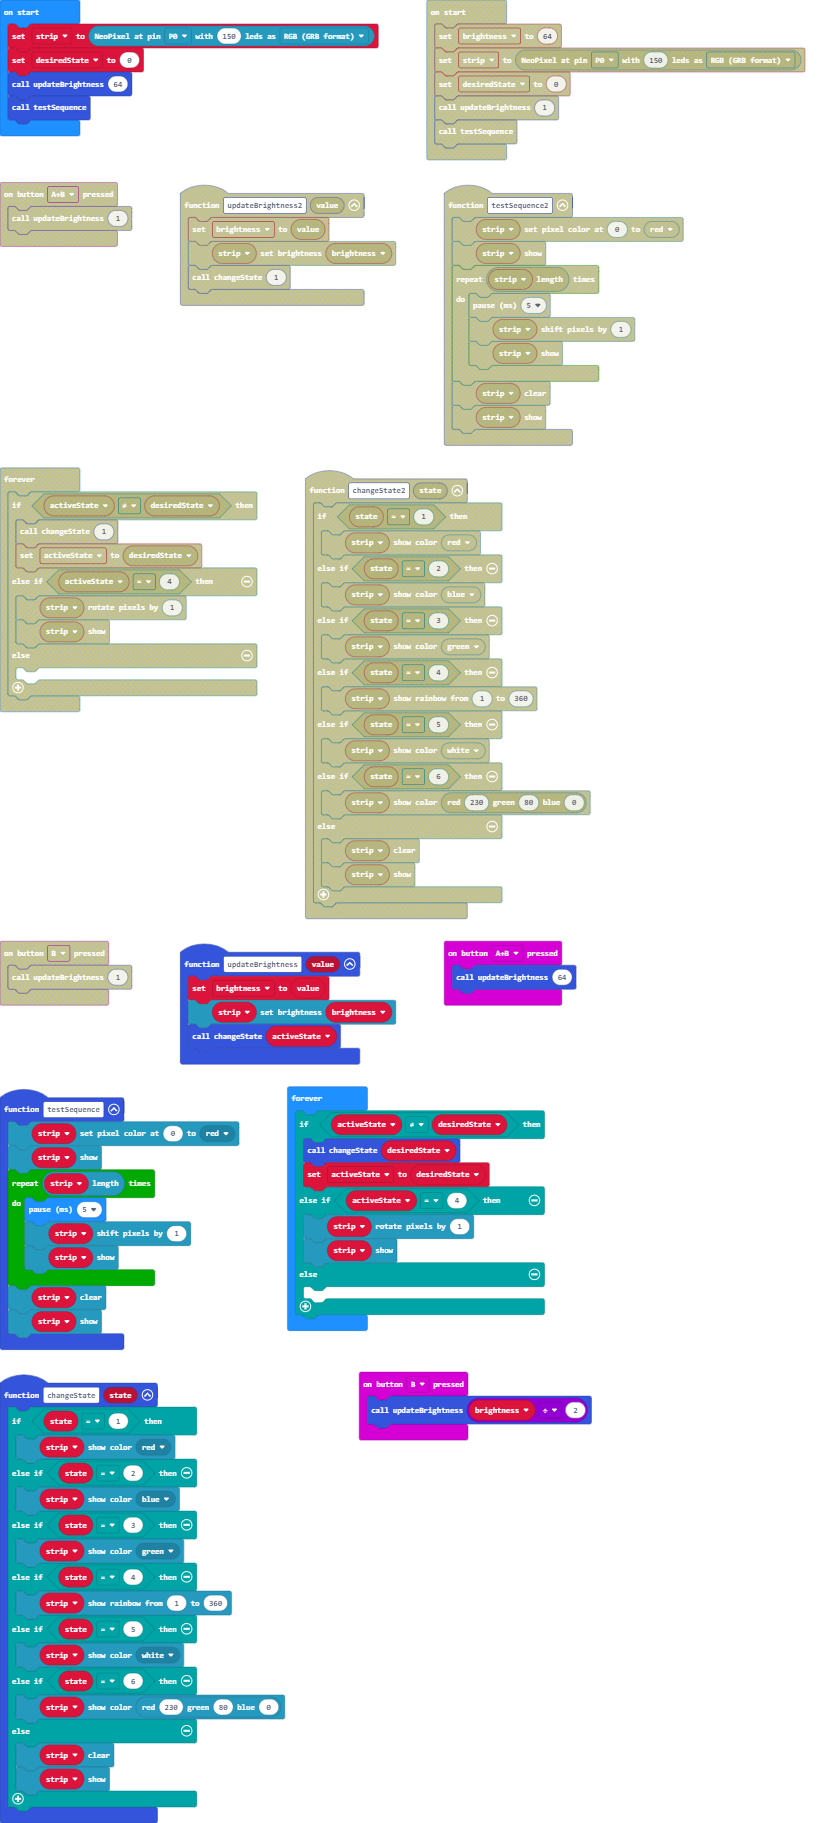
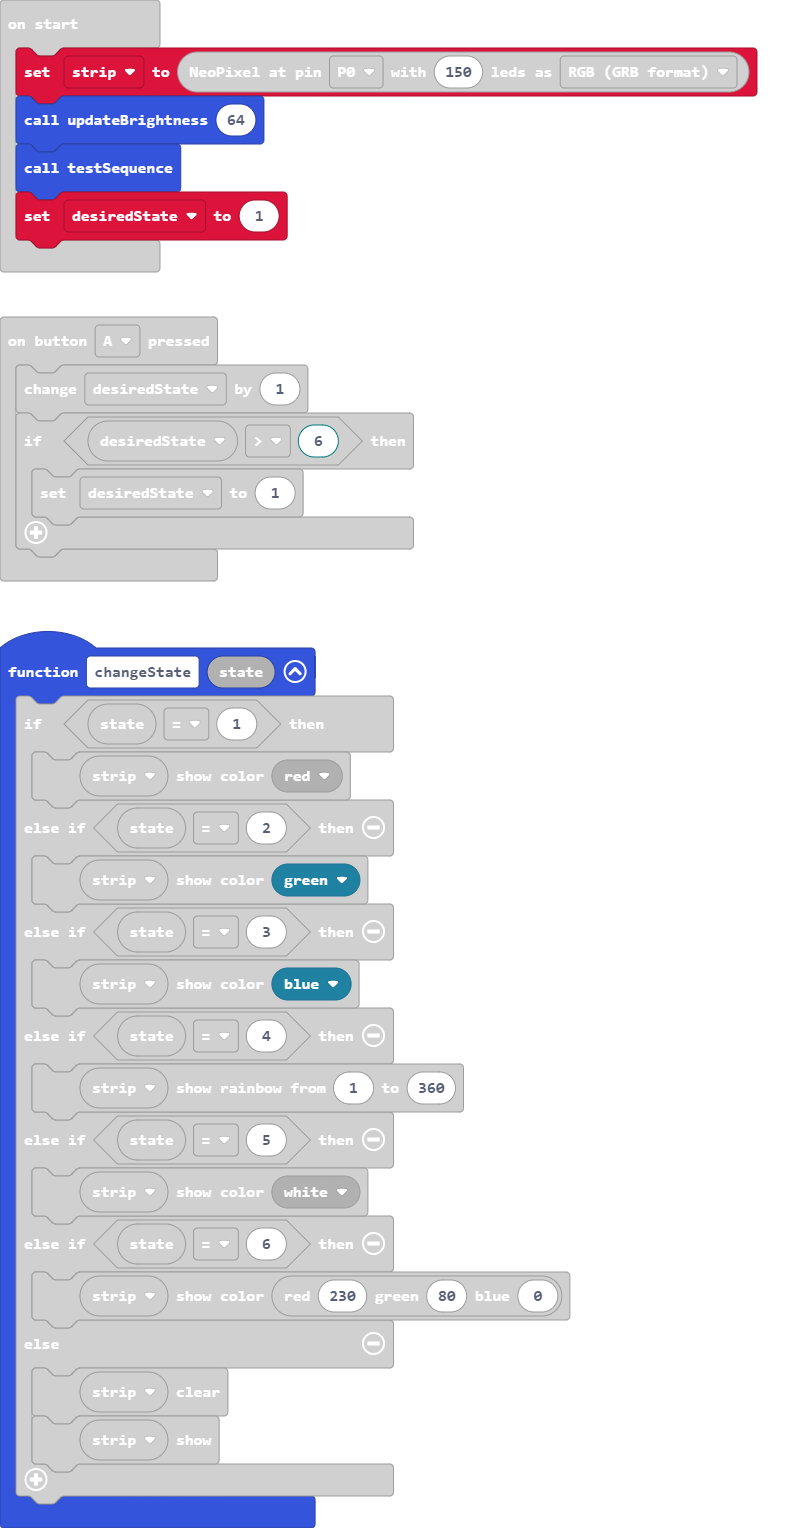
Removed off state

diff --git a/main.ts b/main.ts
@@ -5,7 +5,7 @@ function updateBrightness (value: number) {
 }
 input.onButtonPressed(Button.A, function () {
     desiredState += 1
-    if (desiredState > 7) {
+    if (desiredState > 6) {
         desiredState = 1
     }
 })
@@ -30,9 +30,9 @@ function changeState (state: number) {
     if (state == 1) {
         strip.showColor(neopixel.colors(NeoPixelColors.Red))
     } else if (state == 2) {
-        strip.showColor(neopixel.colors(NeoPixelColors.Blue))
-    } else if (state == 3) {
         strip.showColor(neopixel.colors(NeoPixelColors.Green))
+    } else if (state == 3) {
+        strip.showColor(neopixel.colors(NeoPixelColors.Blue))
     } else if (state == 4) {
         strip.showRainbow(1, 360)
     } else if (state == 5) {
@@ -49,9 +49,9 @@ let brightness = 0
 let desiredState = 0
 let strip: neopixel.Strip = null
 strip = neopixel.create(DigitalPin.P0, 150, NeoPixelMode.RGB)
-desiredState = 0
 updateBrightness(64)
 testSequence()
+desiredState = 1
 basic.forever(function () {
     if (activeState != desiredState) {
         changeState(desiredState)
